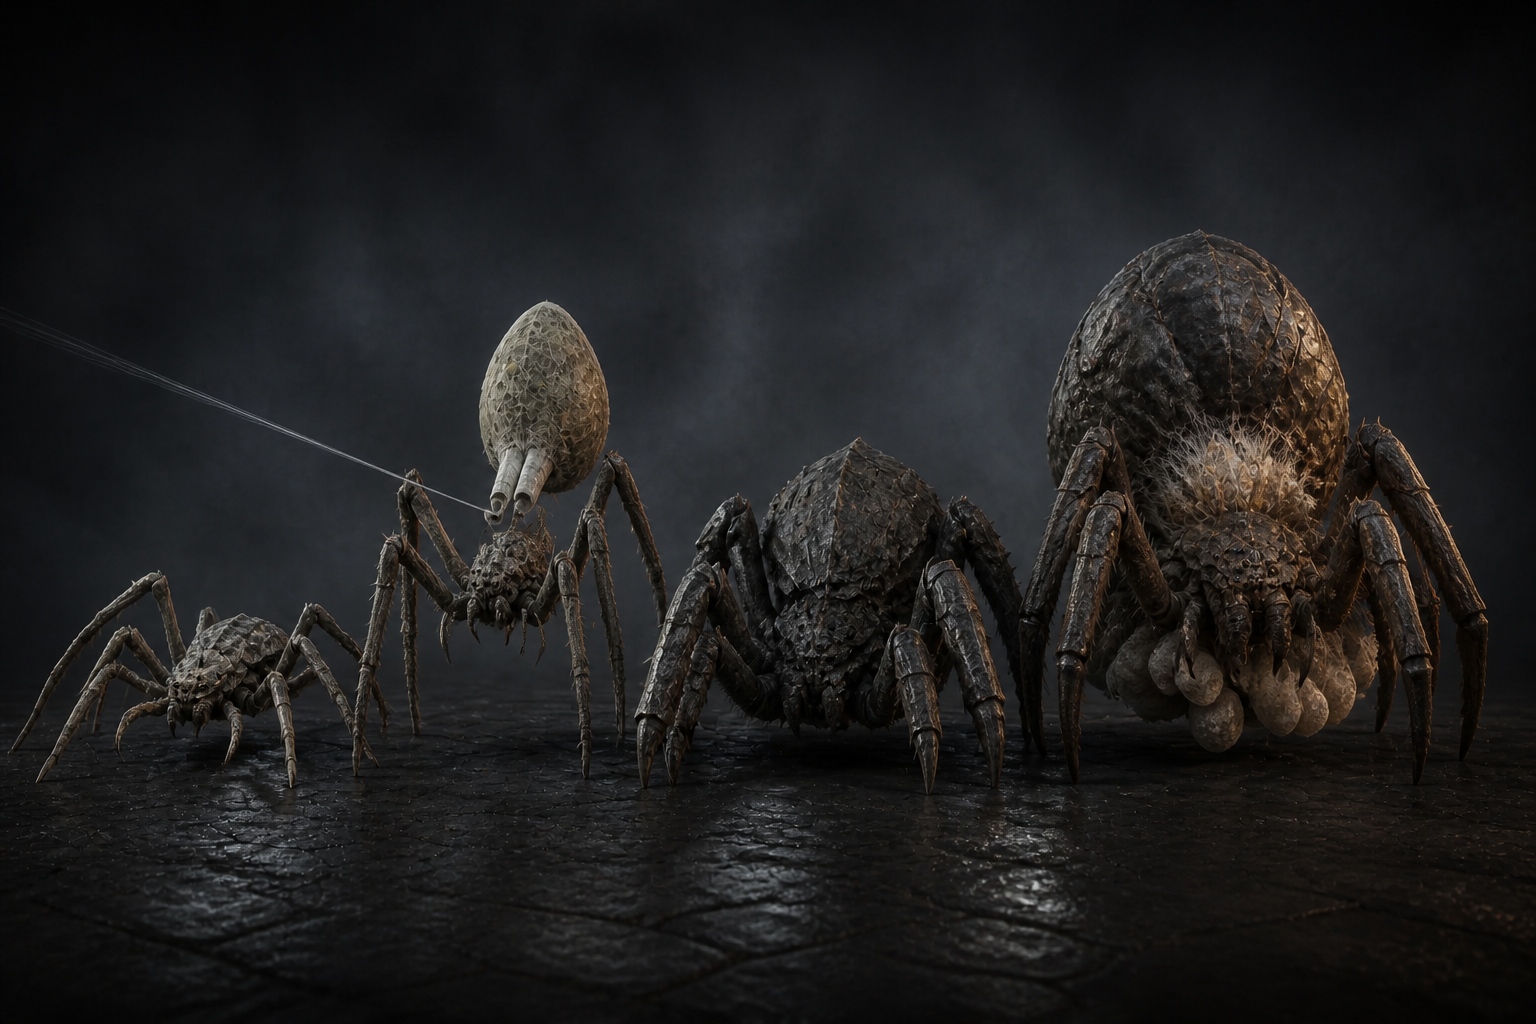
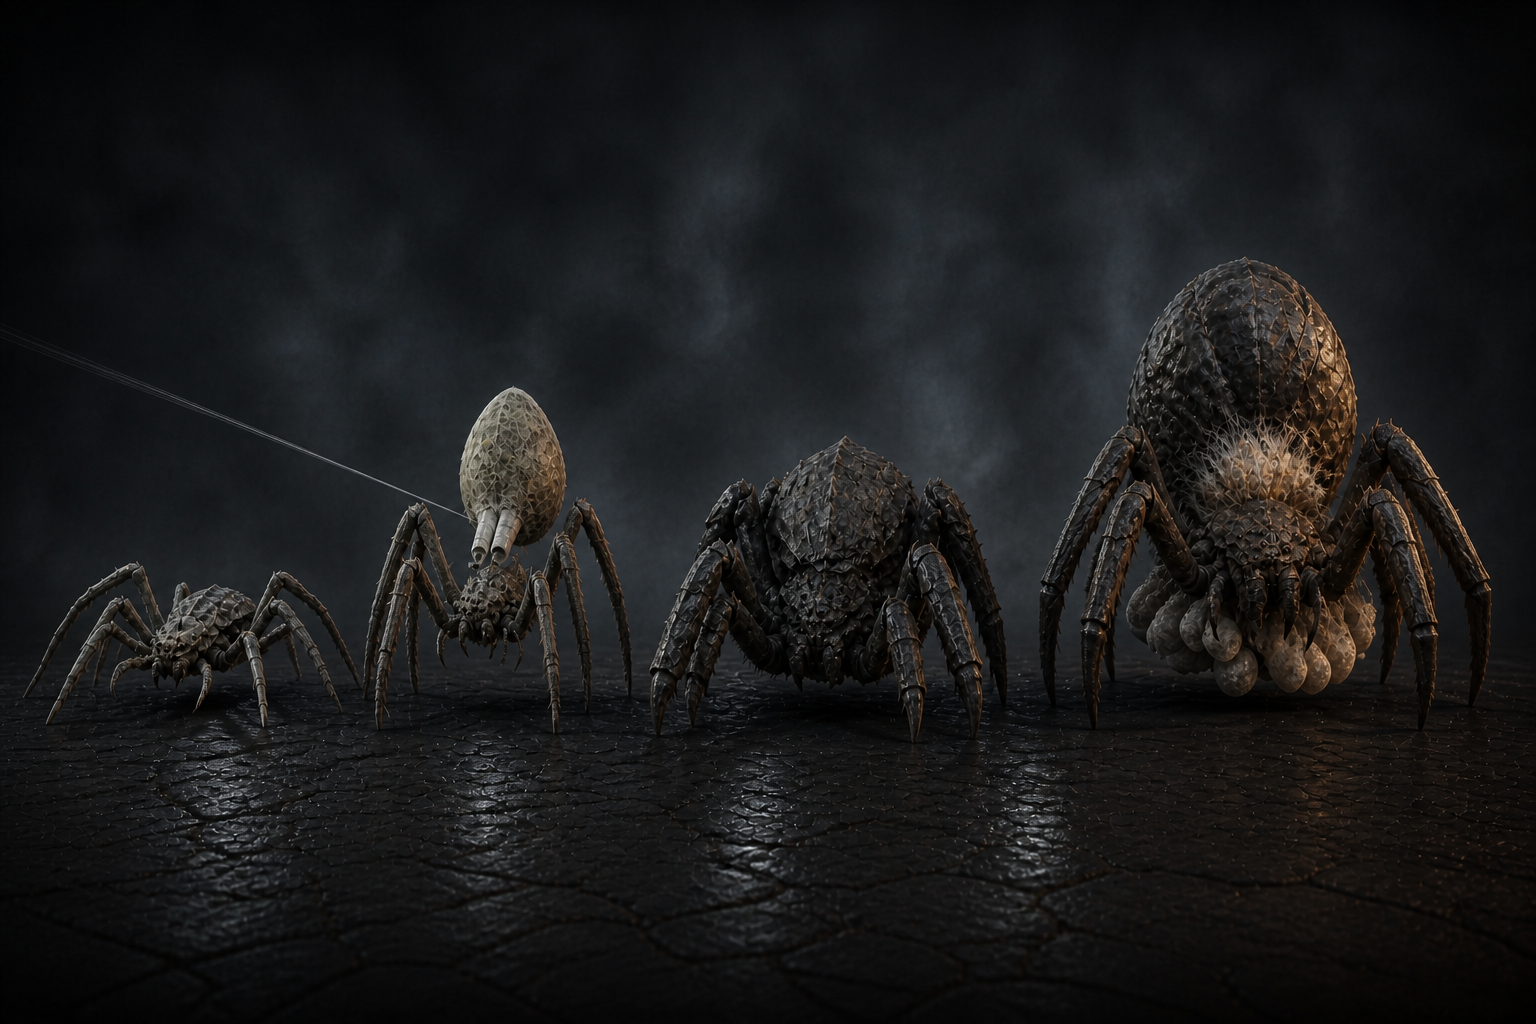
fix(art): regenerate complete arachnid plate

diff --git a/tools/validate-pack-two-monsters.ts b/tools/validate-pack-two-monsters.ts
@@ -33,6 +33,16 @@ const CatalogSchema = z
 						bytes: z.number().int().positive(),
 						contentHash: z.string().regex(/^[a-f0-9]{64}$/u),
 						elapsedMs: z.number().int().positive(),
+						attempts: z
+							.array(
+								z
+									.object({
+										elapsedMs: z.number().int().positive(),
+										result: z.enum(['candidate', 'revise'])
+									})
+									.strict()
+							)
+							.min(1),
 						humanStatus: z.literal('candidate'),
 						authoringInspection: z.enum(['pass', 'concern']),
 						generationMode: z.literal('built-in-imagegen'),
@@ -81,6 +91,12 @@ for (const plate of catalog.plates) {
 	if (!promptRecord.includes(`## ${plate.promptHeading}`)) {
 		throw new Error(`${plate.assetKey} exact prompt is missing`);
 	}
+	if (
+		plate.attempts.at(-1)?.result !== 'candidate' ||
+		plate.attempts.at(-1)?.elapsedMs !== plate.elapsedMs
+	) {
+		throw new Error(`${plate.assetKey} final attempt does not match the retained candidate`);
+	}
 	verifiedBytes += file.size;
 }
 
@@ -90,7 +106,7 @@ process.stdout.write(
 			rosterVersion: catalog.rosterVersion,
 			families: catalog.plates.length,
 			archetypes: PACK_TWO_MONSTER_ARCHETYPES.length,
-			generationAttempts: catalog.plates.length,
+			generationAttempts: catalog.plates.reduce((total, plate) => total + plate.attempts.length, 0),
 			verifiedBytes,
 			humanStatus: 'candidate'
 		},

diff --git a/tools/validate-pack-two-generation-benchmark.ts b/tools/validate-pack-two-generation-benchmark.ts
@@ -23,7 +23,16 @@ const HumanCatalogSchema = z.object({
 });
 const MonsterCatalogSchema = z.object({
 	plates: z.array(
-		z.object({ elapsedMs: z.number().int().positive(), humanStatus: z.literal('candidate') })
+		z.object({
+			elapsedMs: z.number().int().positive(),
+			humanStatus: z.literal('candidate'),
+			attempts: z.array(
+				z.object({
+					elapsedMs: z.number().int().positive(),
+					result: z.enum(['candidate', 'revise'])
+				})
+			)
+		})
 	)
 });
 const BenchmarkSamplesSchema = z.object({
@@ -163,8 +172,10 @@ for (const [name, role] of [
 	);
 }
 categories['monster-family-plate'] = metrics(
-	monsterCatalog.plates.map((plate) => plate.elapsedMs),
-	monsterCatalog.plates.map((plate) => plate.elapsedMs)
+	monsterCatalog.plates.flatMap((plate) => plate.attempts.map((attempt) => attempt.elapsedMs)),
+	monsterCatalog.plates.map((plate) =>
+		plate.attempts.reduce((total, attempt) => total + attempt.elapsedMs, 0)
+	)
 );
 for (const sample of benchmark.samples) {
 	categories[sample.assetType] = metrics([sample.elapsedMs], [sample.elapsedMs]);

diff --git a/assets/enemies/review/pack-2/generation-record.md b/assets/enemies/review/pack-2/generation-record.md
@@ -29,6 +29,9 @@ No text, labels, numerals, UI, frames, panel dividers, logo, watermark, humans, 
 
 ## Arachnids · attempt 1
 
+Result: revise. The returned image did not finish the lower canvas and cropped/crowded multiple
+legs, so it was replaced rather than retained as the catalog candidate.
+
 ```text
 Use case: stylized-concept. Create a 1536×1024 landscape Character Pack 2 monster-family taxonomy plate for Summonlab.
 
@@ -39,6 +42,32 @@ Show exactly four original giant arachnids, fully visible and separated, ordered
 Each silhouette must communicate battlefield duty before labels. Shared floor and camera, realistic chitin, hairs, joints, weight, and contact shadows; restrained midnight, grey, brown, and pale-silk palette with cold gate light and warm rim. Premium painterly key-art quality, intimidating rather than grotesque gore.
 
 No text, labels, numerals, UI, panel dividers, frame, logo, watermark, humans, extra monster, fewer or more than four featured creatures, fantasy insect wings, humanoid faces, cropped legs, overlap that hides silhouettes, rainbow colors, excessive web covering, or bright background.
+```
+
+## Arachnids · attempt 2
+
+- Request wall clock: `27,900 ms`
+- Result: authoring candidate; human review pending
+- Source output: `exec-1c5b2f33-0740-4bd5-a028-bd4d3c13b098.png`
+
+```text
+Use case: stylized-concept
+Asset type: Summonlab Character Pack 2 monster-family taxonomy plate
+Input images: Image 1 is the incomplete failed render and design reference only; Image 2 is the existing cropped taxonomy candidate and design/material reference only. Generate a new complete plate rather than extending black pixels.
+
+Scene/backdrop: cracked near-black stone floor, charcoal-to-midnight studio backdrop, subtle cold gate haze, no scenery clutter.
+Subject: exactly four original giant arachnids, fully visible and separated in a clean left-to-right lineup, each with an anatomically coherent cephalothorax, abdomen, and exactly eight legs:
+1) Tunnel Spider — medium, low and fast flanker; flat dust-grey stone-camouflaged body, long sprinting legs, soft abdomen readable as vulnerable during a turn.
+2) Web Caster — medium ranged restraint specialist; raised pale-silk-wrapped abdomen, braced rear legs, clearly visible pale spinnerets and stored silk, one restrained silk line.
+3) Armored Brood Guard — large chokepoint tank; broad plated cephalothorax, short shield-like front legs, dense stone-dark armor, visibly less-protected side leg joints.
+4) Giant Broodmother — boss scale spawner; much larger suspended abdomen, restrained egg clusters under the body, low guarded nest posture, readable underside vulnerability without gore.
+
+Style/medium: premium realistic painterly dark-fantasy creature key art; coherent chitin plates, hairs, joints, believable weight and contact shadows; intimidating, grounded, and original.
+Composition/framing: landscape 3:2 taxonomy plate. Pull the camera back substantially. Place all four creatures entirely inside a generous safe area. Every abdomen, head, spinneret, egg cluster, all eight legs, and every leg tip must be visible. Leave at least 8% empty margin on the left, right, top, and bottom. Keep clear negative space between silhouettes; no overlap. Shared ground plane and eye-level comparison camera. The broodmother may be tallest but must not touch any edge. Render the entire canvas with finished image detail—no black or blank bands, missing regions, abrupt cutoffs, or unpainted areas.
+Lighting/mood: neutral comparison lighting with cool overhead/gate light and restrained warm rim; dark but legible.
+Color palette: midnight charcoal, stone grey, muted brown, black chitin, pale silk; no rainbow colors.
+Constraints: exactly four featured creatures; correct relative scale; exactly eight visible legs per creature; complete bodies; complete floor and background across the entire canvas; no crop.
+Avoid: text, labels, numerals, UI, panel dividers, frame, logo, watermark, humans, extra monsters, fewer or more than four spiders, missing or duplicate limbs, cropped legs, cropped abdomens, overlap, fantasy insect wings, humanoid faces, excessive web covering, gore, bright background, blank space rendered as pure black, or published-character resemblance.
 ```
 
 ## Arcane hostiles · attempt 1

diff --git a/docs/audits/character-pack-2-completion.md b/docs/audits/character-pack-2-completion.md
@@ -39,7 +39,7 @@ Release status: **held for human visual approval**
 
 - Human assets: 18 identities, 24 bitmaps, 31 generation attempts, seven correction attempts, and
   49,251,605 checksum-verified bytes.
-- Monster taxonomy: six plates, 24 archetypes, six generation attempts, and 14,361,703
+- Monster taxonomy: six plates, 24 archetypes, seven generation attempts, and 14,332,025
   checksum-verified bytes.
 - Premium human request latency: 35.2 s median, 41.9 s p90, and 42.1 s p95.
 - Correction-aware human candidate latency: 38.2 s median, 67.6 s p90, and 80.6 s p95.
